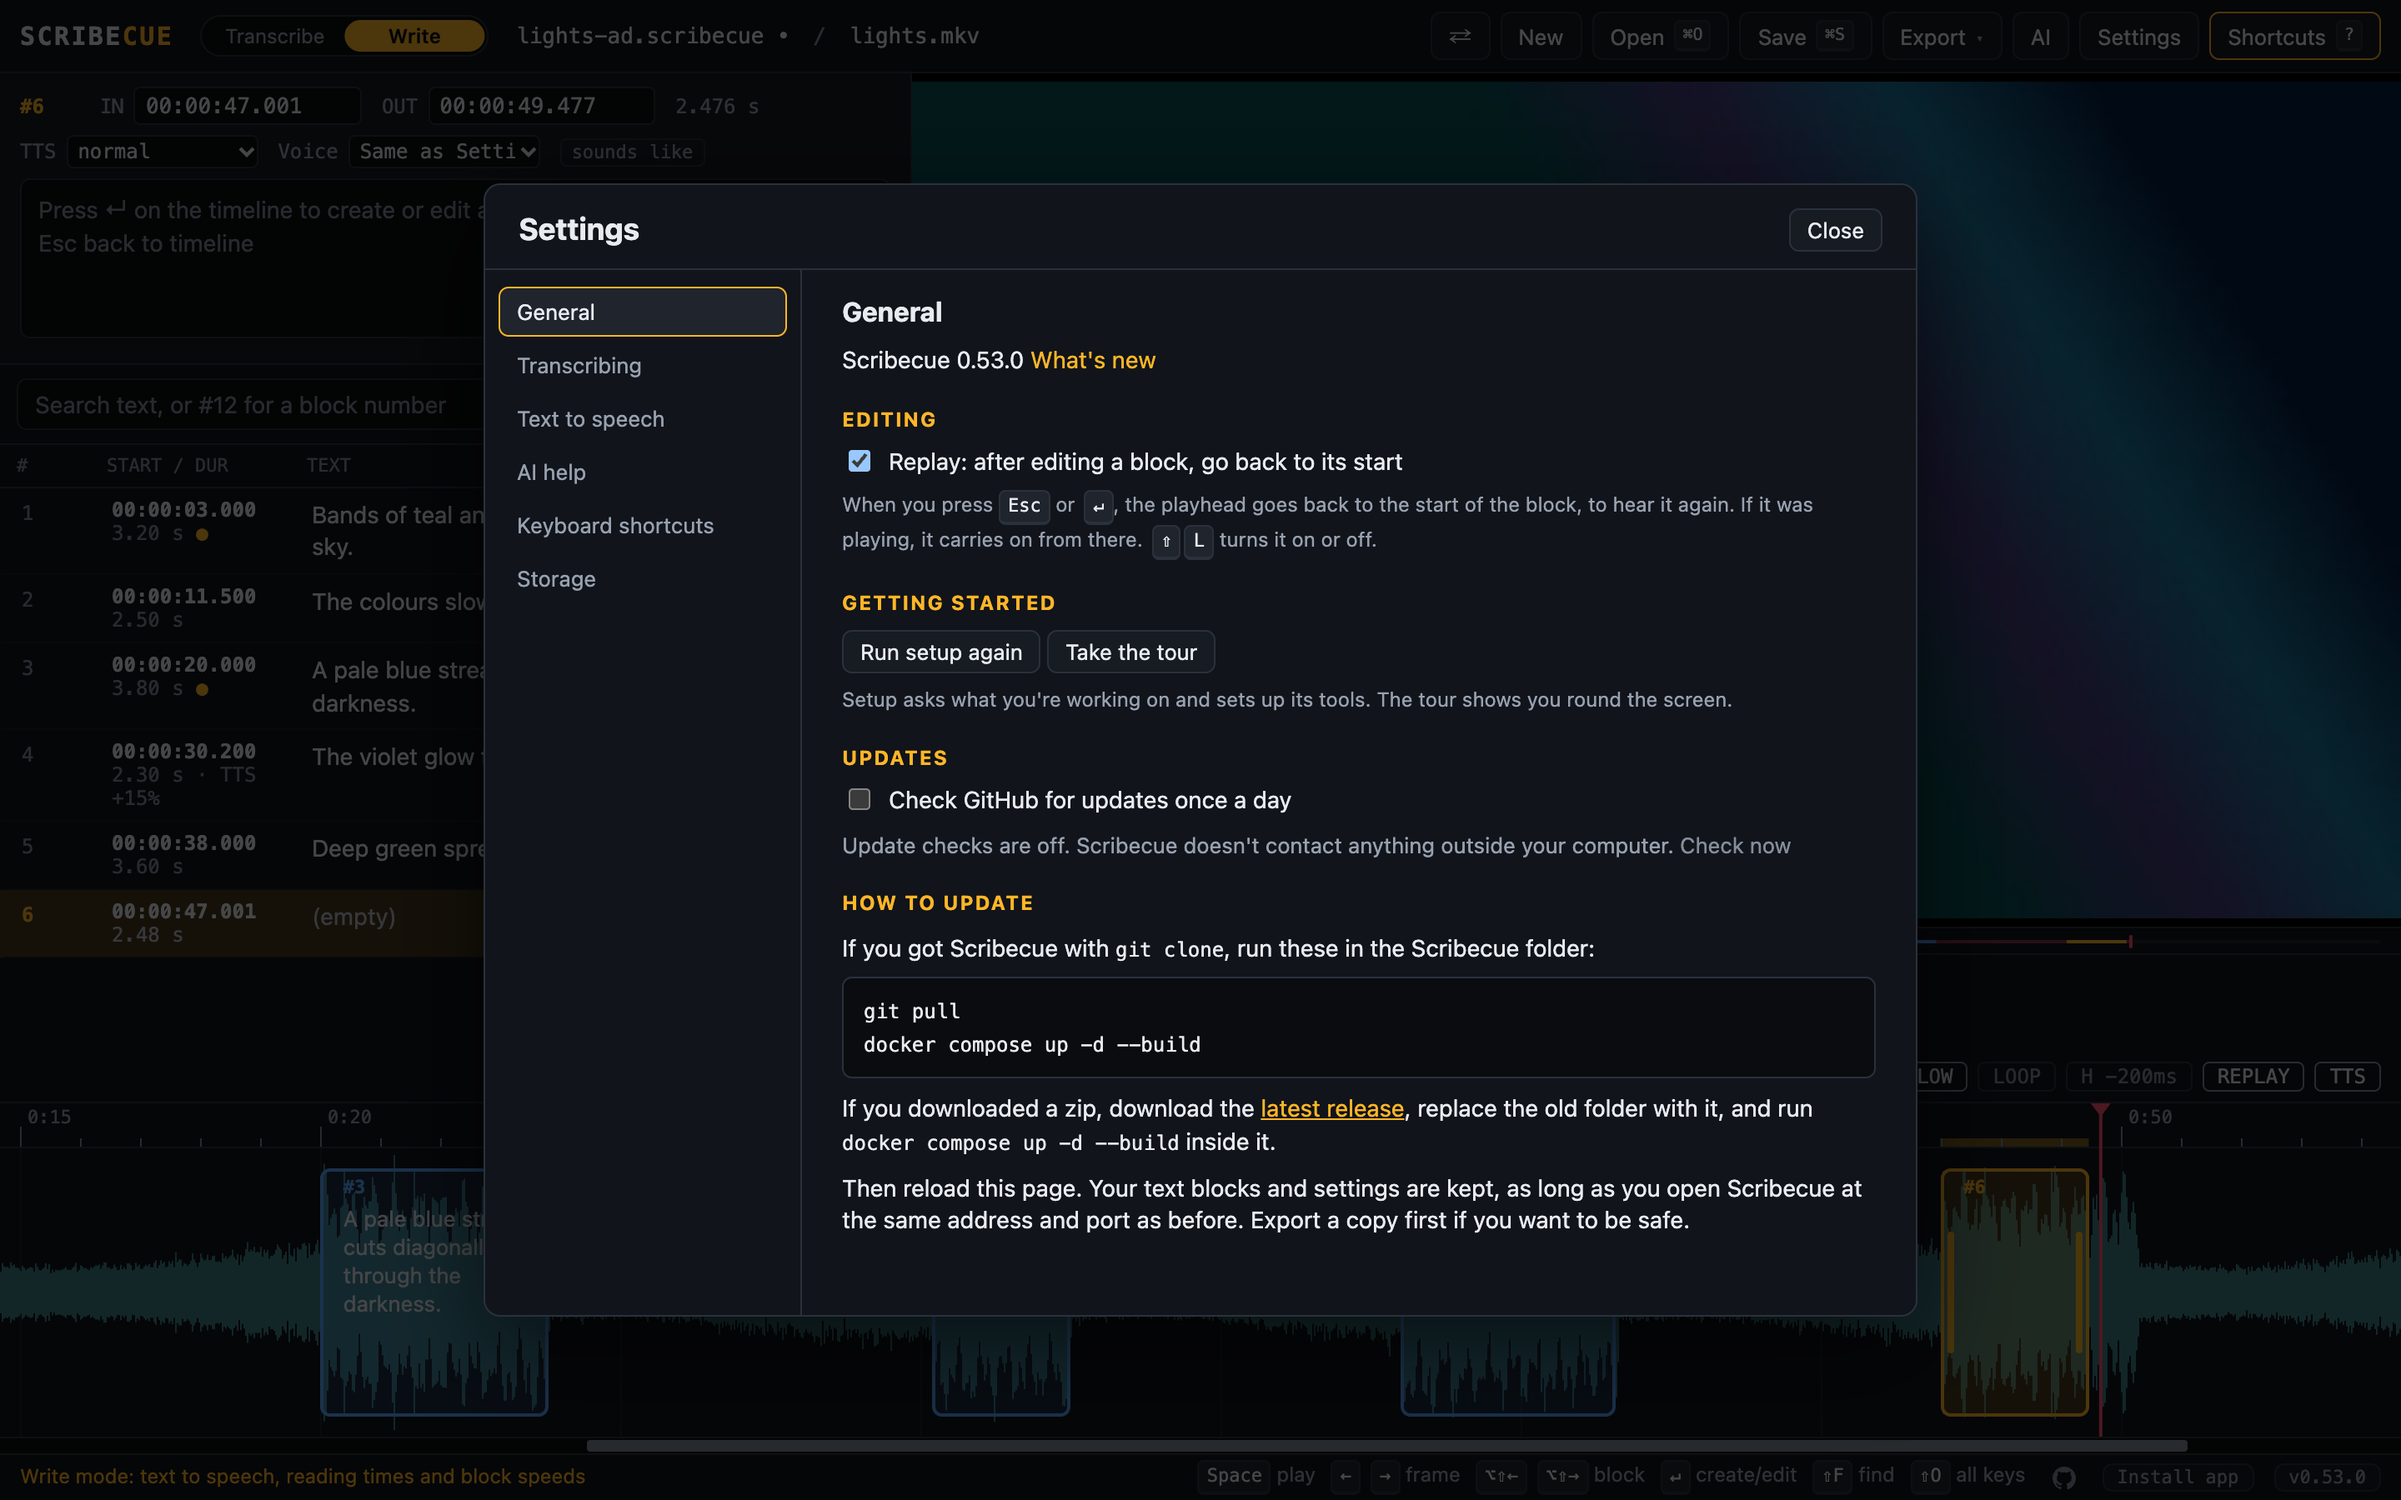
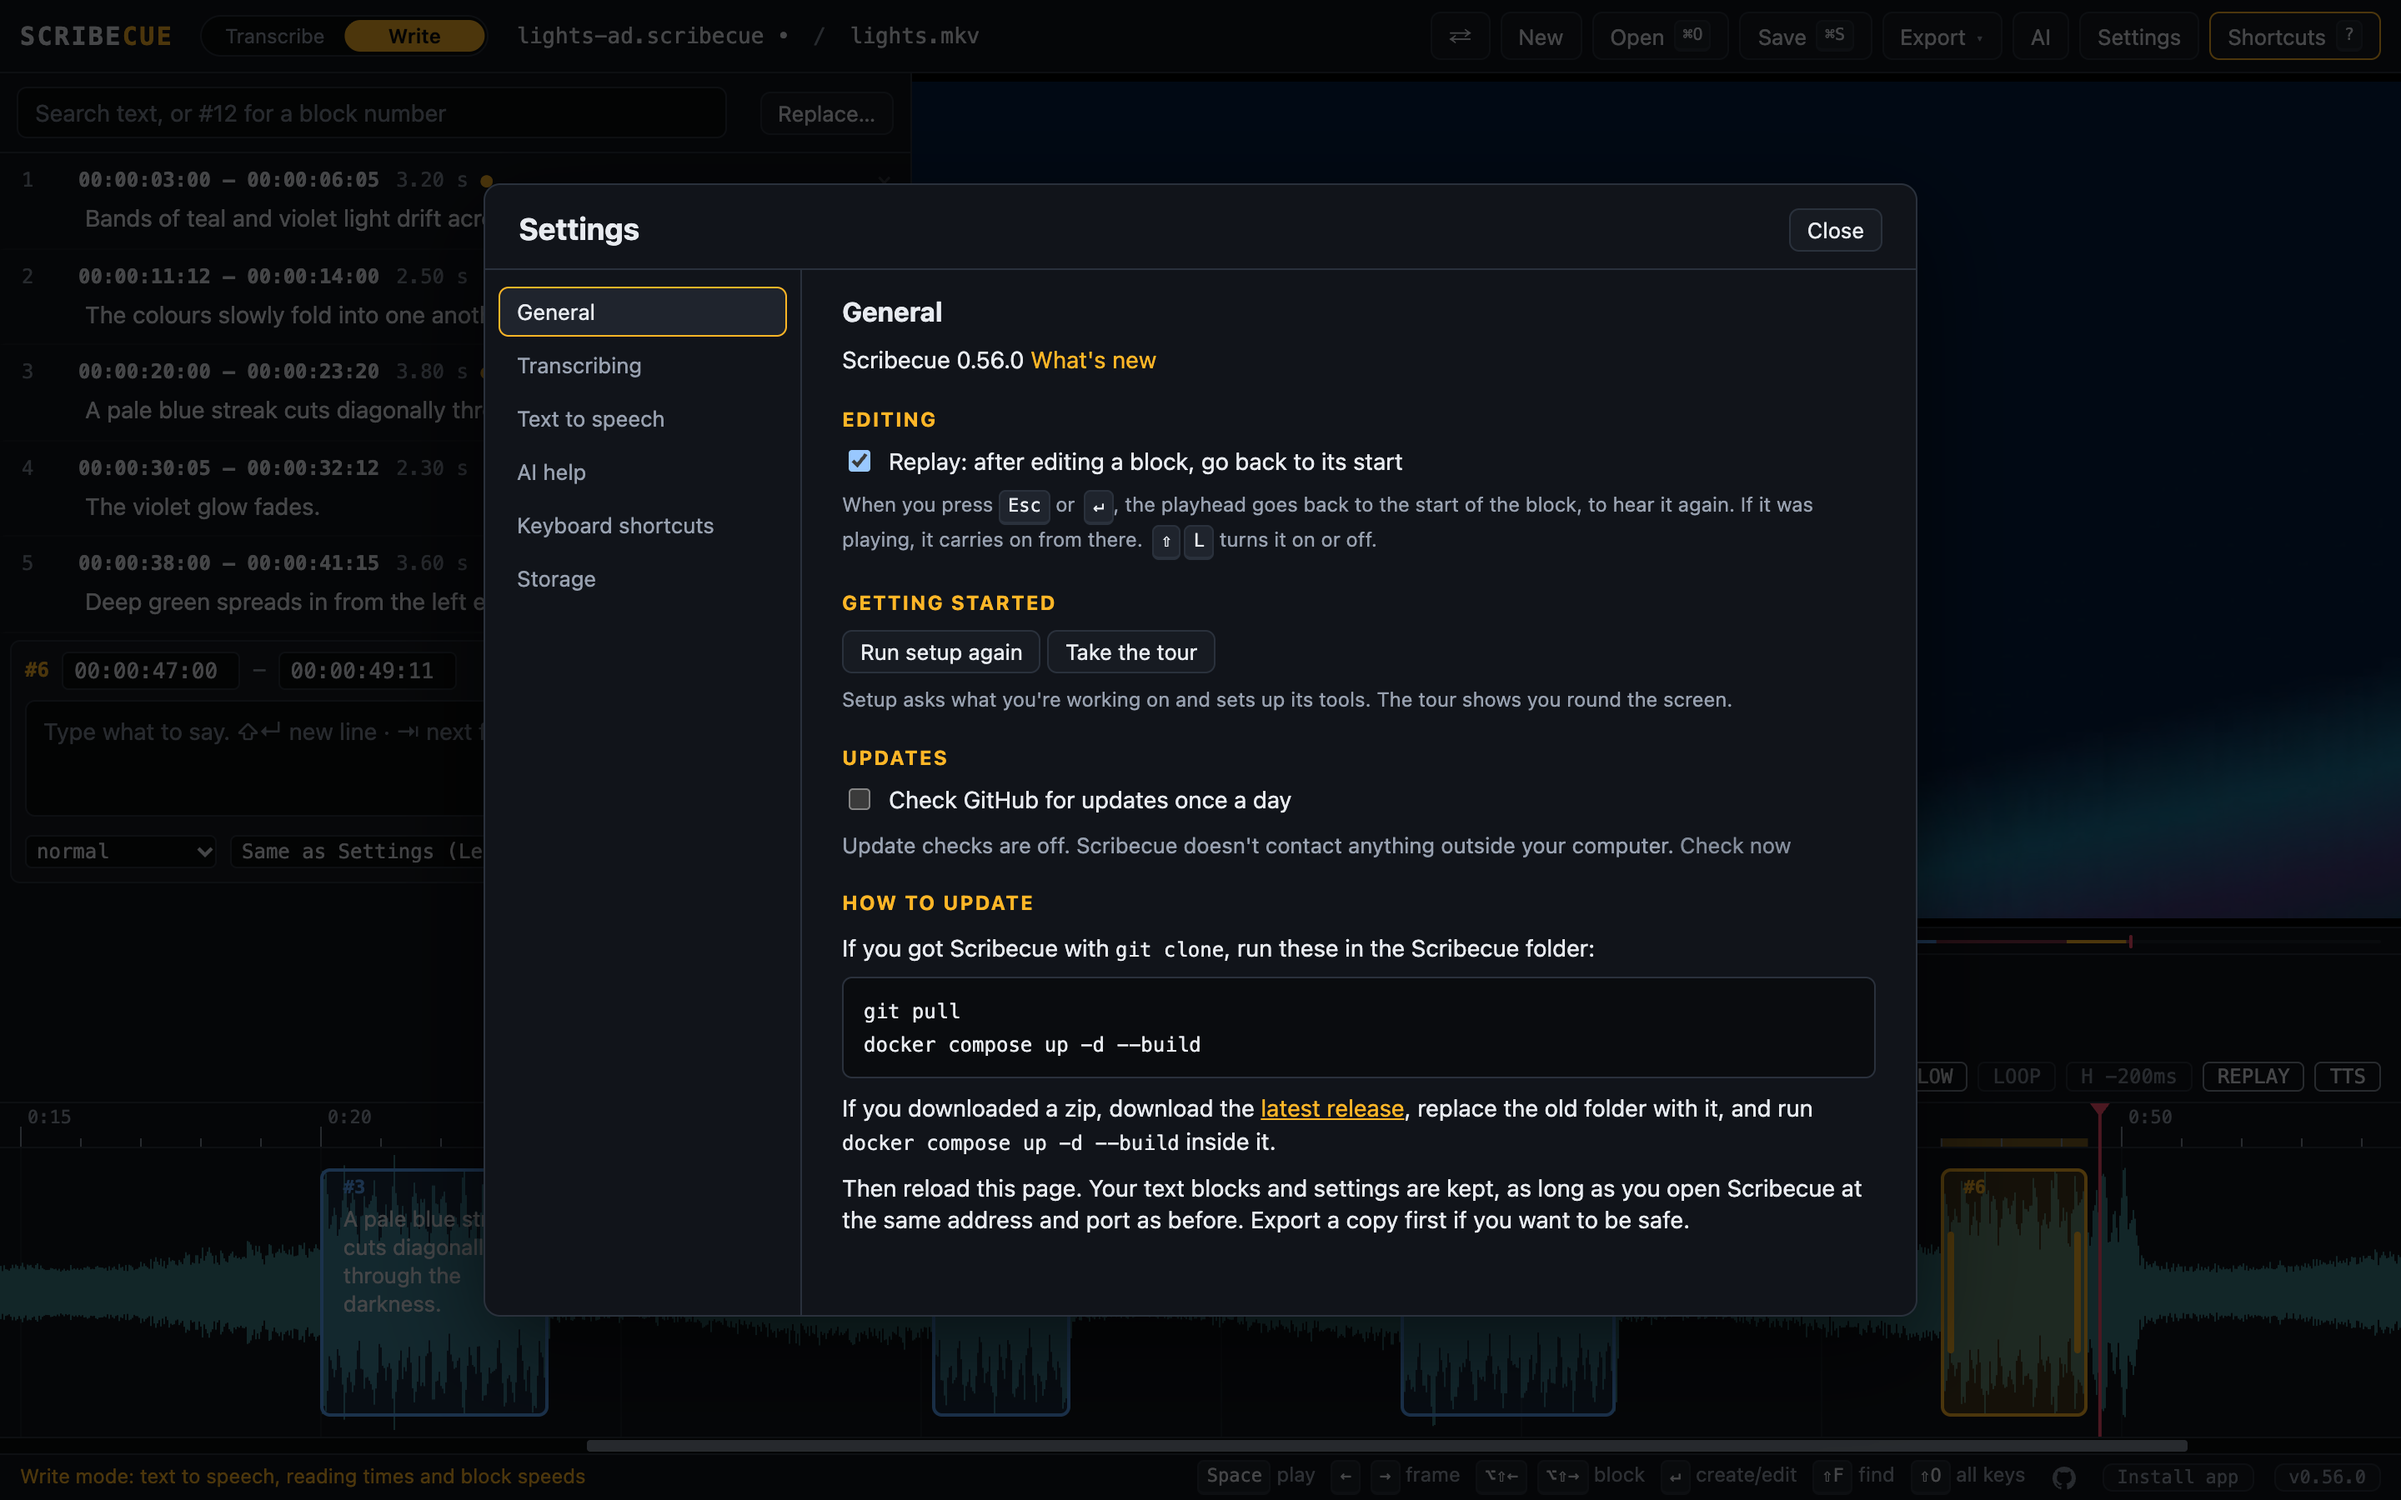
Close the open block with Esc, keeping it selected
A block opens in the list when clicked there, double-clicked, opened with
Enter or marked with H. Esc or Enter closes it again, and it stays selected.
Picking blocks on the timeline or with the arrow keys leaves them closed.
Also retakes the settings screenshot, which showed the old editor.

diff --git a/app/js/app.js b/app/js/app.js
@@ -593,6 +593,8 @@ function gotoSel(end) {
 // ---------------------------------------------------------------- text + time editor
 
 let edit = null; // { id, orig, pushed }
+// Whether the selected block is open in the list to edit. Esc closes it, leaving it selected.
+let edOpen = false;
 
 function updateEditor() {
   const c = selCue();
@@ -665,6 +667,7 @@ function createOrEdit() {
 
 function editText(field = edText) {
   if (!selCue()) return toast('No text block selected — press Enter to create one at the playhead');
+  openEditor();
   field.focus();
   if (field === edText) edText.setSelectionRange(edText.value.length, edText.value.length);
   else field.select();
@@ -673,6 +676,7 @@ function editText(field = edText) {
 // finished: closed with Esc or ↵, rather than by opening something else.
 function closeEditor(finished = false) {
   document.activeElement?.blur();
+  if (finished) { edOpen = false; placeEditor(); }
   if (S.loopOnce) stopLoop();
   // With Replay on, the playhead goes back to the start of the block just edited, so it
   // can be heard again, and playback carries on from there if it was playing.
@@ -993,9 +997,15 @@ function renderList() {
 // The selected block opens in its place, as in Frazier: the rows up to it go above the
 // editor and the rest below. The rows move rather than the editor, as moving a text box
 // takes the focus out of it.
+function openEditor() {
+  if (edOpen) return;
+  edOpen = true;
+  placeEditor();
+  editor.scrollIntoView({ block: 'nearest' });
+}
 function placeEditor() {
   const i = selIdx();
-  editor.hidden = i < 0 || !rowMap.has(S.sel);
+  editor.hidden = !edOpen || i < 0 || !rowMap.has(S.sel);
   if (editor.hidden) return;
   const rows = S.cues.map((c) => rowMap.get(c.id));
   const above = (r) => r.compareDocumentPosition(editor) & Node.DOCUMENT_POSITION_FOLLOWING;
@@ -1007,6 +1017,7 @@ list.addEventListener('click', (e) => {
   const r = e.target.closest('.row');
   if (!r) return;
   if (e.target.closest('.rowdel')) { e.target.blur(); del(S.cues[idx(+r.dataset.id)]); return; }
+  edOpen = true;
   select(+r.dataset.id, { toTop: false });
 });
 list.addEventListener('dblclick', (e) => {
